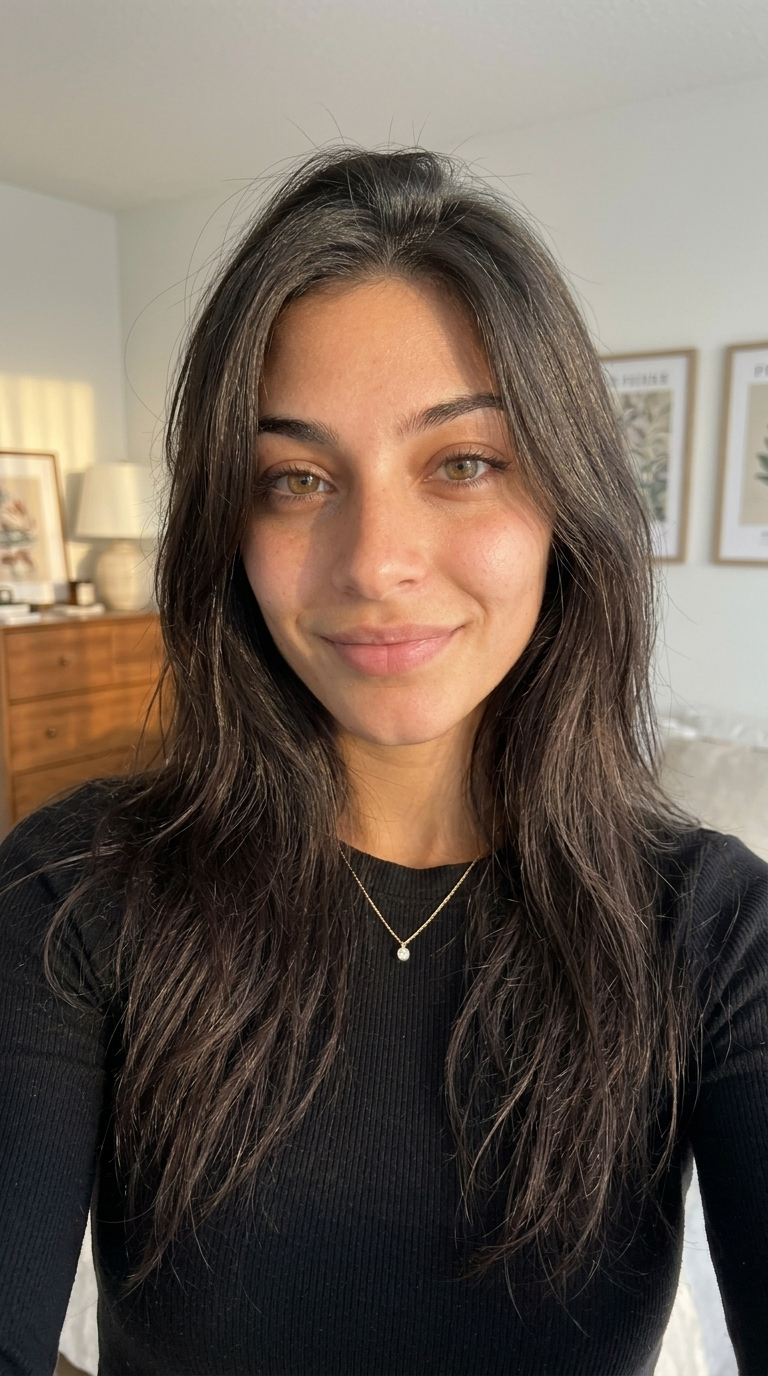
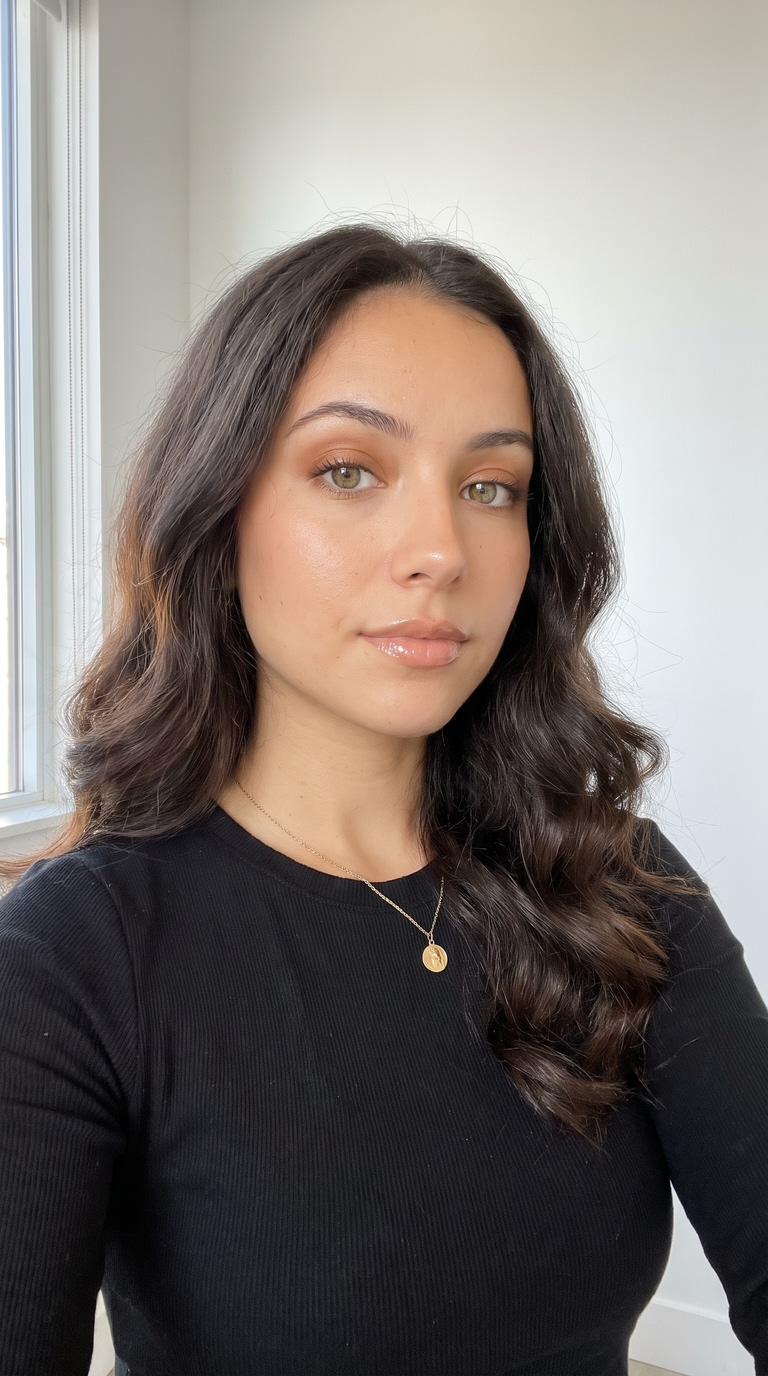
Summer: new photo from a text description, on a white wall
She was the only character made from reference photos and the only one that
looked AI-made, so her hooks did too (founder 2026-11-08). Regenerated like
the rest of the cast: text only, gemini-3-pro-image at 2K, a supermodel look
the founder asked for, real skin texture, plain white wall. Variant G of 12.
Full image (768x1376, full quality), thumbnail and view copy replaced; prompt
in docs/CHARACTER_PROMPTS.md.

The hook cache never serves a clip made with her old photo (PHOTO_SINCE in
src/lib/characters.ts, filtered in reuseHook). Checks: character-photo-checks
(8), mutation-proven; Codex reviewed.

diff --git a/src/lib/server/generation-jobs.ts b/src/lib/server/generation-jobs.ts
@@ -6,6 +6,7 @@ import { cloud, getRun, mediaAccess, registerMedia } from "@/lib/server/store";
 import { copyObject, objectInfo, putObject } from "@/lib/server/r2";
 import { HookStartUncertain, checkHook, startHook } from "@/lib/server/hookgen";
 import { generationPatch } from "@/lib/generation-edit";
+import { PHOTO_SINCE } from "@/lib/characters";
 import type { Reference, Run } from "@/lib/types";
 
 export type GenerationJob = {
@@ -73,9 +74,11 @@ async function reuseHook(job: GenerationJob, who: string): Promise<string | null
     const curated = await db().from("library").select("id").eq("id", sourceRefId).eq("owner", "curated").maybeSingle();
     if (curated.error) throw curated.error;
     if (!curated.data) return null;
+    // Only clips made with the character's current photo (PHOTO_SINCE): an older one shows a face that is gone.
+    const since = PHOTO_SINCE[hook.face.id] ?? "1970-01-01T00:00:00Z";
     const { data, error } = await db().from("generations").select("id, result, start:input->hook->start, end:input->hook->end")
       .eq("state", "done").eq("input->>sourceRefId", sourceRefId).eq("input->hook->face->>kind", "character").eq("input->hook->face->>id", hook.face.id)
-      .is("note", null).order("created_at", { ascending: false }).limit(20);
+      .gte("created_at", since).is("note", null).order("created_at", { ascending: false }).limit(20);
     if (error) throw error;
     const same = ((data ?? []) as unknown as ReuseRow[]).filter((row) => (row.start ?? null) === (hook.start ?? null) && (row.end ?? null) === (hook.end ?? null)).slice(0, REUSE_POOL);
     // Newest few, in random order: when a combination has several clips, sellers do not all get the same one.

diff --git a/src/lib/characters.ts b/src/lib/characters.ts
@@ -15,3 +15,10 @@ export const CHARACTERS = [
 ].map((id) => ({ id, name: id[0].toUpperCase() + id.slice(1), src: `/characters/${id}.jpg`, view: `/characters/view/${id}.webp`, thumb: `/characters/thumbs/${id}.jpg` }));
 
 export const characterById = (id: string | undefined) => CHARACTERS.find((c) => c.id === id) ?? null;
+
+/**
+ * When a character's photo was last replaced (founder 2026-11-08: Summer redone from a text description, without a
+ * reference photo, so hooks stop looking AI-made). Hooks made before it show the old face, so the hook cache
+ * (generation-jobs reuseHook) never serves them for this character.
+ */
+export const PHOTO_SINCE: Record<string, string> = { summer: "2026-11-08T06:40:00Z" };

diff --git a/docs/CHARACTER_PROMPTS.md b/docs/CHARACTER_PROMPTS.md
@@ -318,3 +318,11 @@ natural contrast and true colors, deep dark hair with detail, nothing washed out
 highlights." The new setting is: "Light: warm late-afternoon window light from the side, a little golden on her skin.
 Background: a lived-in bedroom with a wooden dresser, a lamp and framed prints, softly out of focus." The founder
 picked variant B of three.
+
+
+**`summer` (redone 2026-11-08, founder: she was the only character that looked AI-made, and the hooks with her did
+too)**: no reference photo this time, text only, like the rest of the cast, with gemini-3-pro-image at 2K, on a white
+wall. Founder asked for "very attractive, almost like a supermodel" and picked variant G of twelve (four rounds):
+> Ultra realistic raw phone photo, indistinguishable from a real unedited selfie. Vertical 9:16, shot on an iPhone front camera at arm's length, slight wide-angle lens distortion. Close-up: head and shoulders, the face fills about 40% of the frame, eyes in the upper third, sharp focus on the eyes. She is stunningly gorgeous, a world-famous lingerie-brand runway supermodel off duty (fully clothed here): sculpted high cheekbones, a sharp jawline, full plump lips with glossy nude lip color, big bright almond eyes with long lashes and soft bronze eyeshadow, groomed defined brows, a slim face, sun-kissed glowing skin with a little highlighter and bronzer, voluminous glossy blowout hair in big soft waves. But it is a real photo of a real woman, not a render: visible fine pores and skin texture up close, a few baby hairs and flyaways, natural light falling on her face. No airbrushing, no beauty filter, no plastic or waxy skin, no glossy AI look, no studio lighting. Light phone-camera grain, natural daylight. Filming a casual TikTok selfie. Looking straight at the camera, soft confident friendly expression, mouth closed. Casual, modest clothing, fully covered, nothing revealing, not sexual or suggestive. No text, no logos or brand marks on anything, no watermark. A fictional person who does not resemble any real or famous person. The person: a woman around 24 with light olive skin, hazel-green eyes and long dark-brown hair past her shoulders, wearing a black ribbed long-sleeve crewneck top and a thin gold necklace with a small round pendant. Background: a plain white wall in a bright room, daylight from a window to one side, nothing else behind her.
+
+Hook clips made with the old photo are not reused for her (src/lib/characters.ts PHOTO_SINCE).
